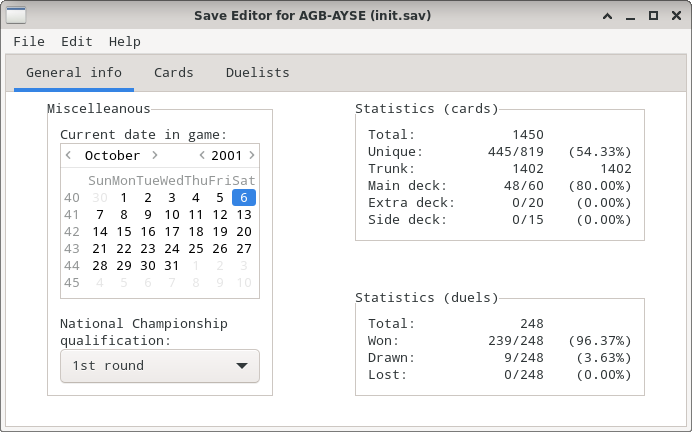
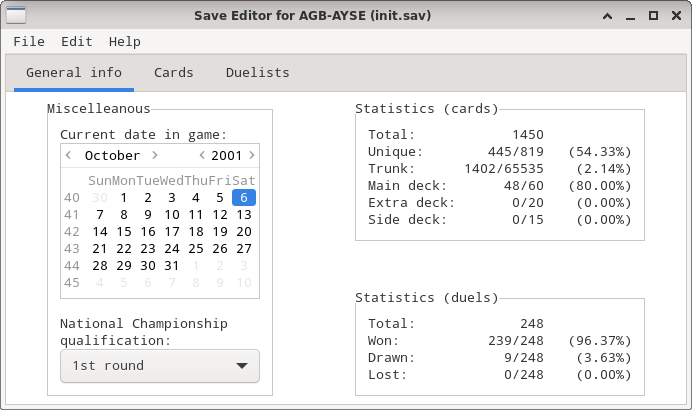
Fix values for trunk stats

diff --git a/src/window.py b/src/window.py
@@ -136,6 +136,7 @@ class ApplicationWindow(Gtk.ApplicationWindow):
     def update_cards_stats(self):
         stats = self.save.get_cards_stats()
         stats["unique_pct"] = stats["unique"] * 100 / stats["unique_max"]
+        stats["trunk_max"] = MAX_TRUNK_CARDS
         stats["trunk_pct"] = stats["trunk"] * 100 / MAX_TRUNK_CARDS
         stats["main_pct"] = stats["main"] * 100 / stats["main_max"]
         stats["extra_pct"] = stats["extra"] * 100 / stats["extra_max"]
@@ -143,8 +144,8 @@ class ApplicationWindow(Gtk.ApplicationWindow):
         self.stats_cards_total.set_text("{total}".format(**stats))
         self.stats_cards_unique.set_text("{unique}/{unique_max}".format(**stats))
         self.stats_cards_unique_pct.set_text("({unique_pct:.2f}%)".format(**stats))
-        self.stats_cards_trunk.set_text("{trunk}".format(**stats))
-        self.stats_cards_trunk_pct.set_text("{trunk}".format(**stats))
+        self.stats_cards_trunk.set_text("{trunk}/{trunk_max}".format(**stats))
+        self.stats_cards_trunk_pct.set_text("({trunk_pct:.2f}%)".format(**stats))
         self.stats_cards_main.set_text("{main}/{main_max}".format(**stats))
         self.stats_cards_main_pct.set_text("({main_pct:.2f}%)".format(**stats))
         self.stats_cards_extra.set_text("{extra}/{extra_max}".format(**stats))
